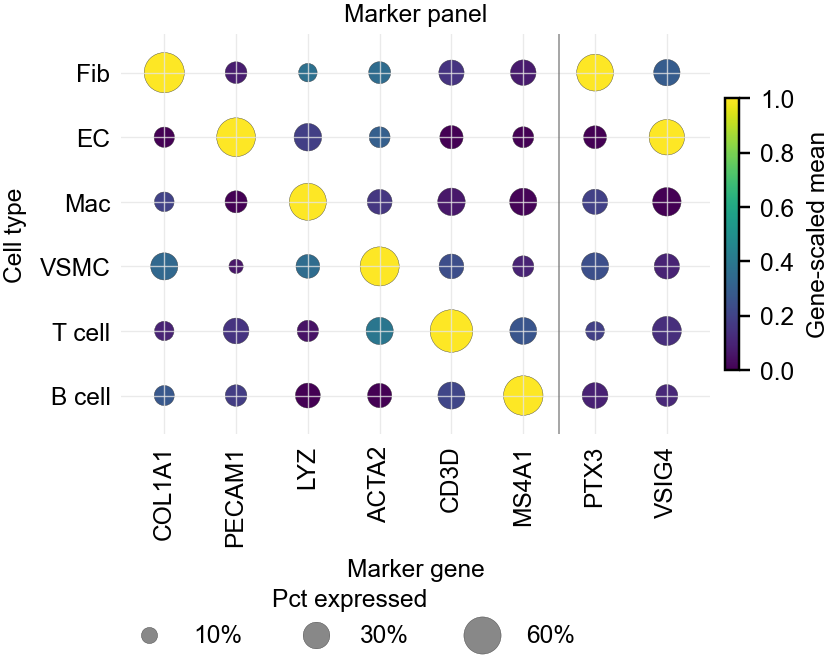
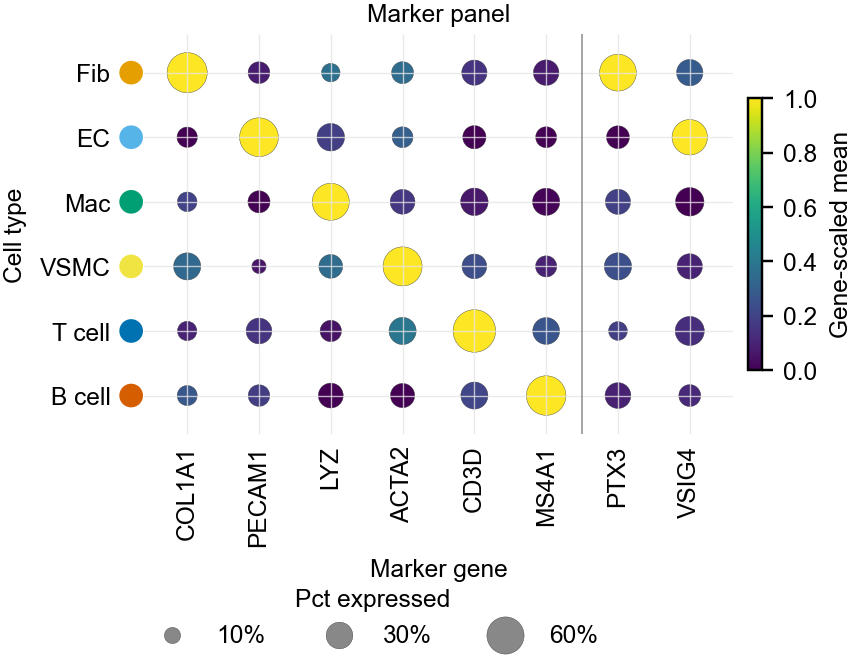
docs: gallery 新增 feature_plot / heatmap_with_row_bars 示例 + marker_dotplot 展示 row_colors（共 29 例）

diff --git a/example_gallery/index.html b/example_gallery/index.html
@@ -2,7 +2,7 @@
 <meta charset="utf-8">
 <title>redirect</title>
 <script>
-const routes = {"": "pages/index.html", "top-quantitative": "pages/quantitative.html", "Quantitative": "pages/quantitative.html", "Bar": "pages/quantitative-bar.html", "Distribution": "pages/quantitative-distribution.html", "Scatter": "pages/quantitative-scatter.html", "Omics": "pages/omics.html", "Heatmap": "pages/omics-heatmap.html", "Composition": "pages/composition.html", "Curve": "pages/curves.html", "Curves": "pages/curves.html", "Network": "pages/network.html", "Utility": "pages/utility.html", "sub-quantitative-bar": "pages/quantitative-bar.html", "sub-quantitative-distribution": "pages/quantitative-distribution.html", "sub-quantitative-scatter": "pages/quantitative-scatter.html", "top-omics": "pages/omics.html", "sub-omics-marker-qc": "pages/omics-marker-qc.html", "sub-omics-comparison": "pages/omics-comparison.html", "sub-omics-differential": "pages/omics-differential.html", "sub-omics-heatmap": "pages/omics-heatmap.html", "top-composition": "pages/composition.html", "sub-composition-pie-donut": "pages/composition-pie-donut.html", "sub-composition-set-overlap": "pages/composition-set-overlap.html", "top-curves": "pages/curves.html", "sub-curves-dose-enzyme": "pages/curves-dose-enzyme.html", "top-network": "pages/network.html", "sub-network-flow-relation": "pages/network-flow-relation.html", "top-utility": "pages/utility.html", "sub-utility-assets": "pages/utility-assets.html", "bar-horizontal": "pages/quantitative-bar.html#bar-horizontal", "bar-circular": "pages/quantitative-bar.html#bar-circular", "bar-enrichment": "pages/quantitative-bar.html#bar-enrichment", "bar-waterfall": "pages/quantitative-bar.html#bar-waterfall", "box-plot": "pages/quantitative-distribution.html#box-plot", "violin-plot": "pages/quantitative-distribution.html#violin-plot", "scatter-linear": "pages/quantitative-scatter.html#scatter-linear", "bubble-plot": "pages/quantitative-scatter.html#bubble-plot", "rank-plot": "pages/quantitative-scatter.html#rank-plot", "dot-chart": "pages/quantitative-scatter.html#dot-chart", "marker-dotplot": "pages/omics-marker-qc.html#marker-dotplot", "dumbbell": "pages/omics-comparison.html#dumbbell", "volcano": "pages/omics-differential.html#volcano", "pca": "pages/omics-marker-qc.html#pca", "heatmap-clustered": "pages/omics-heatmap.html#heatmap-clustered", "heatmap-tile": "pages/omics-heatmap.html#heatmap-tile", "dose-heatmap": "pages/omics-heatmap.html#dose-heatmap", "pie": "pages/composition-pie-donut.html#pie", "donut": "pages/composition-pie-donut.html#donut", "explode-pie": "pages/composition-pie-donut.html#explode-pie", "zoom-pie": "pages/composition-pie-donut.html#zoom-pie", "venn": "pages/composition-set-overlap.html#venn", "dose-curve": "pages/curves-dose-enzyme.html#dose-curve", "michaelis-menten": "pages/curves-dose-enzyme.html#michaelis-menten", "chord": "pages/network-flow-relation.html#chord", "hub-spoke": "pages/network-flow-relation.html#hub-spoke", "tissue-icons": "pages/utility-assets.html#tissue-icons"};
+const routes = {"": "pages/index.html", "top-quantitative": "pages/quantitative.html", "Quantitative": "pages/quantitative.html", "Bar": "pages/quantitative-bar.html", "Distribution": "pages/quantitative-distribution.html", "Scatter": "pages/quantitative-scatter.html", "Omics": "pages/omics.html", "Heatmap": "pages/omics-heatmap.html", "Composition": "pages/composition.html", "Curve": "pages/curves.html", "Curves": "pages/curves.html", "Network": "pages/network.html", "Utility": "pages/utility.html", "sub-quantitative-bar": "pages/quantitative-bar.html", "sub-quantitative-distribution": "pages/quantitative-distribution.html", "sub-quantitative-scatter": "pages/quantitative-scatter.html", "top-omics": "pages/omics.html", "sub-omics-marker-qc": "pages/omics-marker-qc.html", "sub-omics-comparison": "pages/omics-comparison.html", "sub-omics-differential": "pages/omics-differential.html", "sub-omics-heatmap": "pages/omics-heatmap.html", "top-composition": "pages/composition.html", "sub-composition-pie-donut": "pages/composition-pie-donut.html", "sub-composition-set-overlap": "pages/composition-set-overlap.html", "top-curves": "pages/curves.html", "sub-curves-dose-enzyme": "pages/curves-dose-enzyme.html", "top-network": "pages/network.html", "sub-network-flow-relation": "pages/network-flow-relation.html", "top-utility": "pages/utility.html", "sub-utility-assets": "pages/utility-assets.html", "bar-horizontal": "pages/quantitative-bar.html#bar-horizontal", "bar-circular": "pages/quantitative-bar.html#bar-circular", "bar-enrichment": "pages/quantitative-bar.html#bar-enrichment", "bar-waterfall": "pages/quantitative-bar.html#bar-waterfall", "box-plot": "pages/quantitative-distribution.html#box-plot", "violin-plot": "pages/quantitative-distribution.html#violin-plot", "scatter-linear": "pages/quantitative-scatter.html#scatter-linear", "bubble-plot": "pages/quantitative-scatter.html#bubble-plot", "rank-plot": "pages/quantitative-scatter.html#rank-plot", "dot-chart": "pages/quantitative-scatter.html#dot-chart", "marker-dotplot": "pages/omics-marker-qc.html#marker-dotplot", "feature-plot": "pages/omics-marker-qc.html#feature-plot", "dumbbell": "pages/omics-comparison.html#dumbbell", "volcano": "pages/omics-differential.html#volcano", "pca": "pages/omics-marker-qc.html#pca", "heatmap-clustered": "pages/omics-heatmap.html#heatmap-clustered", "heatmap-tile": "pages/omics-heatmap.html#heatmap-tile", "heatmap-row-bars": "pages/omics-heatmap.html#heatmap-row-bars", "dose-heatmap": "pages/omics-heatmap.html#dose-heatmap", "pie": "pages/composition-pie-donut.html#pie", "donut": "pages/composition-pie-donut.html#donut", "explode-pie": "pages/composition-pie-donut.html#explode-pie", "zoom-pie": "pages/composition-pie-donut.html#zoom-pie", "venn": "pages/composition-set-overlap.html#venn", "dose-curve": "pages/curves-dose-enzyme.html#dose-curve", "michaelis-menten": "pages/curves-dose-enzyme.html#michaelis-menten", "chord": "pages/network-flow-relation.html#chord", "hub-spoke": "pages/network-flow-relation.html#hub-spoke", "tissue-icons": "pages/utility-assets.html#tissue-icons"};
 const key = decodeURIComponent(location.hash.replace(/^#/, ""));
 location.replace(routes[key] || routes[""]);
 </script>

diff --git a/example_gallery/pages/omics.html b/example_gallery/pages/omics.html
@@ -90,13 +90,13 @@
 </nav>
 <main class="report-main">
 <h1 id="omics">Omics</h1>
-<p>7 种示例图。</p>
+<p>9 种示例图。</p>
 <h2 id="子类">子类</h2>
 <ul>
-<li><a href="omics-marker-qc.html">Marker / QC</a> — 2 examples</li>
+<li><a href="omics-marker-qc.html">Marker / QC</a> — 3 examples</li>
 <li><a href="omics-comparison.html">Comparison</a> — 1 examples</li>
 <li><a href="omics-differential.html">Differential</a> — 1 examples</li>
-<li><a href="omics-heatmap.html">Heatmap</a> — 3 examples</li>
+<li><a href="omics-heatmap.html">Heatmap</a> — 4 examples</li>
 </ul>
 <h2 id="全部示例">全部示例</h2>
 <div class="gallery-grid">
@@ -112,7 +112,8 @@ Marker dot plot
 单细胞 marker 表达矩阵。
 </p>
 <p>
-<em>颜色=gene-scaled mean，大小=pct expressed。</em>
+<em>颜色=gene-scaled mean(可换 grey-red)，大小=pct
+expressed，左侧彩点=cell-type 颜色。</em>
 </p>
 <div class="gallery-meta">
 Omics / Marker / QC · drawing_yh/dotplot.py
@@ -122,6 +123,31 @@ Omics / Marker / QC · drawing_yh/dotplot.py
 </div>
 <div class="gallery-links">
 <a href="../generated/marker_dotplot.png">原图</a><a href="../../drawing_yh/dotplot.py">源码/示例</a>
+</div>
+</div>
+</article>
+<article class="gallery-card" id="feature-plot">
+<figure>
+<a href="../generated/feature_plot.png"><img src="../generated/feature_plot.png" alt="Embedding feature plot"></a>
+</figure>
+<div class="body">
+<h3>
+Embedding feature plot
+</h3>
+<p>
+基因表达投影到 UMAP/tSNE 的多基因网格。
+</p>
+<p>
+<em>共享 grey-red colorbar + 角落 UMAP 箭头轴，按非零百分位裁剪。</em>
+</p>
+<div class="gallery-meta">
+Omics / Marker / QC · drawing_yh/embedding.py
+</div>
+<div class="gallery-tags">
+<span>single-cell</span> <span>umap</span> <span>feature</span>
+</div>
+<div class="gallery-links">
+<a href="../generated/feature_plot.png">原图</a><a href="../../drawing_yh/embedding.py">源码/示例</a>
 </div>
 </div>
 </article>
@@ -249,6 +275,31 @@ drawing_yh/heatmap/heatmap_tile_style/heatmap_tile_style.py
 </div>
 <div class="gallery-links">
 <a href="../generated/heatmap_tile.png">原图</a><a href="../../drawing_yh/heatmap/heatmap_tile_style/heatmap_tile_style.py">源码/示例</a>
+</div>
+</div>
+</article>
+<article class="gallery-card" id="heatmap-row-bars">
+<figure>
+<a href="../generated/heatmap_row_bars.png"><img src="../generated/heatmap_row_bars.png" alt="Heatmap + per-row bars"></a>
+</figure>
+<div class="body">
+<h3>
+Heatmap + per-row bars
+</h3>
+<p>
+z-score 热图 + 每行 top 富集条(如各 cell type GO)。
+</p>
+<p>
+<em>左侧行彩条 + 列块分隔，右侧横向条标注通路。</em>
+</p>
+<div class="gallery-meta">
+Omics / Heatmap · drawing_yh/heatmap/row_bars.py
+</div>
+<div class="gallery-tags">
+<span>single-cell</span> <span>heatmap</span> <span>enrichment</span>
+</div>
+<div class="gallery-links">
+<a href="../generated/heatmap_row_bars.png">原图</a><a href="../../drawing_yh/heatmap/row_bars.py">源码/示例</a>
 </div>
 </div>
 </article>

diff --git a/example_gallery/pages/omics-heatmap.html b/example_gallery/pages/omics-heatmap.html
@@ -80,6 +80,7 @@
   <a href="omics-heatmap.html" class="current">Heatmap</a>
   <a href="#heatmap-clustered">  Clustered heatmap</a>
   <a href="#heatmap-tile">  Tile heatmap</a>
+  <a href="#heatmap-row-bars">  Heatmap + per-row bars</a>
   <a href="#dose-heatmap">  Dose-response heatmap</a>
 </aside>
 <div class="super-switch"><span class="super-label">图类</span><a class="super-btn" href="index.html">Overview</a><a class="super-btn" href="quantitative.html">Quantitative</a><a class="super-btn current" href="omics.html">Omics</a><a class="super-btn" href="composition.html">Composition</a><a class="super-btn" href="curves.html">Curves</a><a class="super-btn" href="network.html">Network</a><a class="super-btn" href="utility.html">Utility</a></div>
@@ -93,7 +94,7 @@
 </nav>
 <main class="report-main">
 <h1 id="heatmap">Heatmap</h1>
-<p>Omics / Heatmap — 3 种示例图。</p>
+<p>Omics / Heatmap — 4 种示例图。</p>
 <div class="gallery-grid">
 <article class="gallery-card" id="heatmap-clustered">
 <figure>
@@ -144,6 +145,31 @@ drawing_yh/heatmap/heatmap_tile_style/heatmap_tile_style.py
 </div>
 <div class="gallery-links">
 <a href="../generated/heatmap_tile.png">原图</a><a href="../../drawing_yh/heatmap/heatmap_tile_style/heatmap_tile_style.py">源码/示例</a>
+</div>
+</div>
+</article>
+<article class="gallery-card" id="heatmap-row-bars">
+<figure>
+<a href="../generated/heatmap_row_bars.png"><img src="../generated/heatmap_row_bars.png" alt="Heatmap + per-row bars"></a>
+</figure>
+<div class="body">
+<h3>
+Heatmap + per-row bars
+</h3>
+<p>
+z-score 热图 + 每行 top 富集条(如各 cell type GO)。
+</p>
+<p>
+<em>左侧行彩条 + 列块分隔，右侧横向条标注通路。</em>
+</p>
+<div class="gallery-meta">
+Omics / Heatmap · drawing_yh/heatmap/row_bars.py
+</div>
+<div class="gallery-tags">
+<span>single-cell</span> <span>heatmap</span> <span>enrichment</span>
+</div>
+<div class="gallery-links">
+<a href="../generated/heatmap_row_bars.png">原图</a><a href="../../drawing_yh/heatmap/row_bars.py">源码/示例</a>
 </div>
 </div>
 </article>

diff --git a/example_gallery/pages/omics-marker-qc.html b/example_gallery/pages/omics-marker-qc.html
@@ -76,6 +76,7 @@
   <a href="omics.html">Omics overview</a>
   <a href="omics-marker-qc.html" class="current">Marker / QC</a>
   <a href="#marker-dotplot">  Marker dot plot</a>
+  <a href="#feature-plot">  Embedding feature plot</a>
   <a href="#pca">  PCA score plot</a>
   <a href="omics-comparison.html">Comparison</a>
   <a href="omics-differential.html">Differential</a>
@@ -92,7 +93,7 @@
 </nav>
 <main class="report-main">
 <h1 id="marker-qc">Marker / QC</h1>
-<p>Omics / Marker / QC — 2 种示例图。</p>
+<p>Omics / Marker / QC — 3 种示例图。</p>
 <div class="gallery-grid">
 <article class="gallery-card" id="marker-dotplot">
 <figure>
@@ -106,7 +107,8 @@ Marker dot plot
 单细胞 marker 表达矩阵。
 </p>
 <p>
-<em>颜色=gene-scaled mean，大小=pct expressed。</em>
+<em>颜色=gene-scaled mean(可换 grey-red)，大小=pct
+expressed，左侧彩点=cell-type 颜色。</em>
 </p>
 <div class="gallery-meta">
 Omics / Marker / QC · drawing_yh/dotplot.py
@@ -116,6 +118,31 @@ Omics / Marker / QC · drawing_yh/dotplot.py
 </div>
 <div class="gallery-links">
 <a href="../generated/marker_dotplot.png">原图</a><a href="../../drawing_yh/dotplot.py">源码/示例</a>
+</div>
+</div>
+</article>
+<article class="gallery-card" id="feature-plot">
+<figure>
+<a href="../generated/feature_plot.png"><img src="../generated/feature_plot.png" alt="Embedding feature plot"></a>
+</figure>
+<div class="body">
+<h3>
+Embedding feature plot
+</h3>
+<p>
+基因表达投影到 UMAP/tSNE 的多基因网格。
+</p>
+<p>
+<em>共享 grey-red colorbar + 角落 UMAP 箭头轴，按非零百分位裁剪。</em>
+</p>
+<div class="gallery-meta">
+Omics / Marker / QC · drawing_yh/embedding.py
+</div>
+<div class="gallery-tags">
+<span>single-cell</span> <span>umap</span> <span>feature</span>
+</div>
+<div class="gallery-links">
+<a href="../generated/feature_plot.png">原图</a><a href="../../drawing_yh/embedding.py">源码/示例</a>
 </div>
 </div>
 </article>

diff --git a/example_gallery/pages/index.html b/example_gallery/pages/index.html
@@ -108,11 +108,11 @@
 </nav>
 <main class="report-main">
 <h1 id="drawing-yh-图型示例库">drawing-yh 图型示例库</h1>
-<p>27 种示例图，按标准三层目录组织：图类 → 子类 → 具体图型。</p>
+<p>29 种示例图，按标准三层目录组织：图类 → 子类 → 具体图型。</p>
 <h2 id="图类">图类</h2>
 <ul>
 <li><a href="quantitative.html">Quantitative</a> — 10 examples</li>
-<li><a href="omics.html">Omics</a> — 7 examples</li>
+<li><a href="omics.html">Omics</a> — 9 examples</li>
 <li><a href="composition.html">Composition</a> — 5 examples</li>
 <li><a href="curves.html">Curves</a> — 2 examples</li>
 <li><a href="network.html">Network</a> — 2 examples</li>

diff --git a/example_gallery/build_gallery.py b/example_gallery/build_gallery.py
@@ -250,6 +250,7 @@ def generate_marker_dotplot() -> Path:
         xlabel="Marker gene",
         ylabel="Cell type",
         fig_size=(5.2, 3.25),
+        row_colors=dict(zip(rows, OKABE_ITO)),
         block_per_gene={
             "COL1A1": "Lineage",
             "PECAM1": "Lineage",
@@ -350,6 +351,59 @@ def generate_hub_spoke() -> Path:
     return out
 
 
+def generate_feature_plot() -> Path:
+    from drawing_yh import feature_plot
+
+    rng = np.random.default_rng(23)
+    per = 200
+    centers = np.array([[-2.6, 0.1], [2.1, 2.0], [1.4, -2.3]])
+    coords = np.vstack([c + rng.normal(0, 0.7, (per, 2)) for c in centers])
+
+    def marker(cluster_idx: int, strength: float = 3.0):
+        v = rng.gamma(0.3, size=coords.shape[0])
+        lo, hi = cluster_idx * per, (cluster_idx + 1) * per
+        v[lo:hi] += rng.gamma(strength, size=per)
+        return v
+
+    values = {"PECAM1": marker(0), "COL1A1": marker(1), "LYZ": marker(2)}
+    out = GEN / "feature_plot.png"
+    fig, _ = feature_plot(coords, values, panel_size=1.95, point_size=7,
+                          vmin="p2", vmax="p98")
+    fig.savefig(out, dpi=220, bbox_inches="tight")
+    plt.close(fig)
+    return out
+
+
+def generate_heatmap_row_bars() -> Path:
+    from drawing_yh import heatmap_with_row_bars
+
+    rng = np.random.default_rng(29)
+    rows = ["Fib", "EC", "Mac", "VSMC", "T cell", "B cell"]
+    per = 3
+    G = len(rows)
+    Z = rng.normal(0, 0.6, (G, G * per))
+    for i in range(G):
+        Z[i, i * per:(i + 1) * per] += 2.3
+    row_bars = {
+        "Fib": [("extracellular matrix organization", 6.1), ("collagen fibril", 3.2)],
+        "EC": [("vasculature development", 5.4), ("angiogenesis", 2.8)],
+        "Mac": [("immune response", 4.9), ("phagocytosis", 2.4)],
+        "VSMC": [("muscle contraction", 4.1)],
+        "T cell": [("T cell activation", 3.8)],
+        "B cell": [("B cell receptor signaling", 3.3)],
+    }
+    colors = dict(zip(rows, OKABE_ITO))
+    out = GEN / "heatmap_row_bars.png"
+    fig, _ = heatmap_with_row_bars(
+        Z, row_labels=rows, row_bars=row_bars,
+        block_sizes=[per] * G, row_colors=colors,
+        z_clip=2.5, figsize=(6.2, 3.0),
+    )
+    fig.savefig(out, dpi=220, bbox_inches="tight")
+    plt.close(fig)
+    return out
+
+
 def generate_all() -> dict[str, Path]:
     GEN.mkdir(parents=True, exist_ok=True)
     return {
@@ -360,6 +414,8 @@ def generate_all() -> dict[str, Path]:
         "heatmap_tile": generate_heatmap_tile(),
         "pca_score": generate_pca_plot(),
         "marker_dotplot": generate_marker_dotplot(),
+        "feature_plot": generate_feature_plot(),
+        "heatmap_row_bars": generate_heatmap_row_bars(),
         "dumbbell": generate_dumbbell(),
         "venn_diagram": generate_venn(),
         "chord_diagram": generate_chord(),
@@ -380,12 +436,14 @@ def build_examples(generated: dict[str, Path]) -> list[Example]:
         Example("bubble-plot", "Quantitative", "Scatter", "Bubble plot", generated["bubble_plot"], OUT / "build_gallery.py", "二维类别矩阵 + 第三变量大小。", "颜色和气泡大小可同时编码。", ("bubble", "matrix")),
         Example("rank-plot", "Quantitative", "Scatter", "Rank plot", generated["rank_plot"], OUT / "build_gallery.py", "候选基因、通路、feature 的排序。", "适合强调 top candidates。", ("rank", "candidate")),
         Example("dot-chart", "Quantitative", "Scatter", "Dot chart", p / "scatter/dot_chart/output/protein_dotplot/TNF_p0.png", p / "scatter/dot_chart/dot_chart.py", "蛋白/代谢物跨组织或分组点图。", "可用颜色、位置、显著性共同编码。", ("dot", "summary")),
-        Example("marker-dotplot", "Omics", "Marker / QC", "Marker dot plot", generated["marker_dotplot"], p / "dotplot.py", "单细胞 marker 表达矩阵。", "颜色=gene-scaled mean，大小=pct expressed。", ("single-cell", "marker", "dotplot")),
+        Example("marker-dotplot", "Omics", "Marker / QC", "Marker dot plot", generated["marker_dotplot"], p / "dotplot.py", "单细胞 marker 表达矩阵。", "颜色=gene-scaled mean(可换 grey-red)，大小=pct expressed，左侧彩点=cell-type 颜色。", ("single-cell", "marker", "dotplot")),
+        Example("feature-plot", "Omics", "Marker / QC", "Embedding feature plot", generated["feature_plot"], p / "embedding.py", "基因表达投影到 UMAP/tSNE 的多基因网格。", "共享 grey-red colorbar + 角落 UMAP 箭头轴，按非零百分位裁剪。", ("single-cell", "umap", "feature")),
         Example("dumbbell", "Omics", "Comparison", "Dumbbell chart", generated["dumbbell"], p / "dumbbell.py", "Young vs Old 或处理前后均值比较。", "箭头方向编码升降，适合通讯强度或 pathway score。", ("dumbbell", "comparison")),
         Example("volcano", "Omics", "Differential", "Volcano plot", p / "volcano_plot/Volcano_plot.png", p / "volcano_plot/volcano.py", "差异分析结果，logFC × p-value。", "适合快速筛选显著上/下调。", ("volcano", "DEG")),
         Example("pca", "Omics", "Marker / QC", "PCA score plot", generated["pca_score"], p / "pca/PCA.py", "样本整体结构、批次、分组分离。", "用于 QC 和组间结构展示。", ("PCA", "QC")),
         Example("heatmap-clustered", "Omics", "Heatmap", "Clustered heatmap", p / "heatmap/heatmap_clustered/HMM 20241126/heatmap_with_colorbar_cluster.png", p / "heatmap/heatmap_clustered/heapmap_clustered.py", "矩阵聚类、表达模式、样本/基因分组。", "适合 feature 数中等的全局模式。", ("heatmap", "cluster")),
         Example("heatmap-tile", "Omics", "Heatmap", "Tile heatmap", generated["heatmap_tile"], p / "heatmap/heatmap_tile_style/heatmap_tile_style.py", "通路 × 细胞类型、组织 × feature 的紧凑矩阵。", "适合报告里快速比较方向。", ("heatmap", "tile")),
+        Example("heatmap-row-bars", "Omics", "Heatmap", "Heatmap + per-row bars", generated["heatmap_row_bars"], p / "heatmap/row_bars.py", "z-score 热图 + 每行 top 富集条(如各 cell type GO)。", "左侧行彩条 + 列块分隔，右侧横向条标注通路。", ("single-cell", "heatmap", "enrichment")),
         Example("dose-heatmap", "Omics", "Heatmap", "Dose-response heatmap", p / "dose_response/heatmap_with_colorbar.png", p / "dose_response/heatmap_with_colorbar.py", "药物浓度 × 组合条件矩阵。", "适合筛选敏感窗口。", ("dose-response", "heatmap")),
         Example("pie", "Composition", "Pie / Donut", "Pie chart", p / "pie_chart/pie/pie.png", p / "pie_chart/pie/main.py", "少量类别的组成比例。", "类别过多时优先换 bar plot。", ("pie", "composition")),
         Example("donut", "Composition", "Pie / Donut", "Donut chart", p / "pie_chart/donut/donut.png", p / "pie_chart/donut/main.py", "组成比例 + 中心注释。", "比普通 pie 更适合放总数或标签。", ("donut", "composition")),
